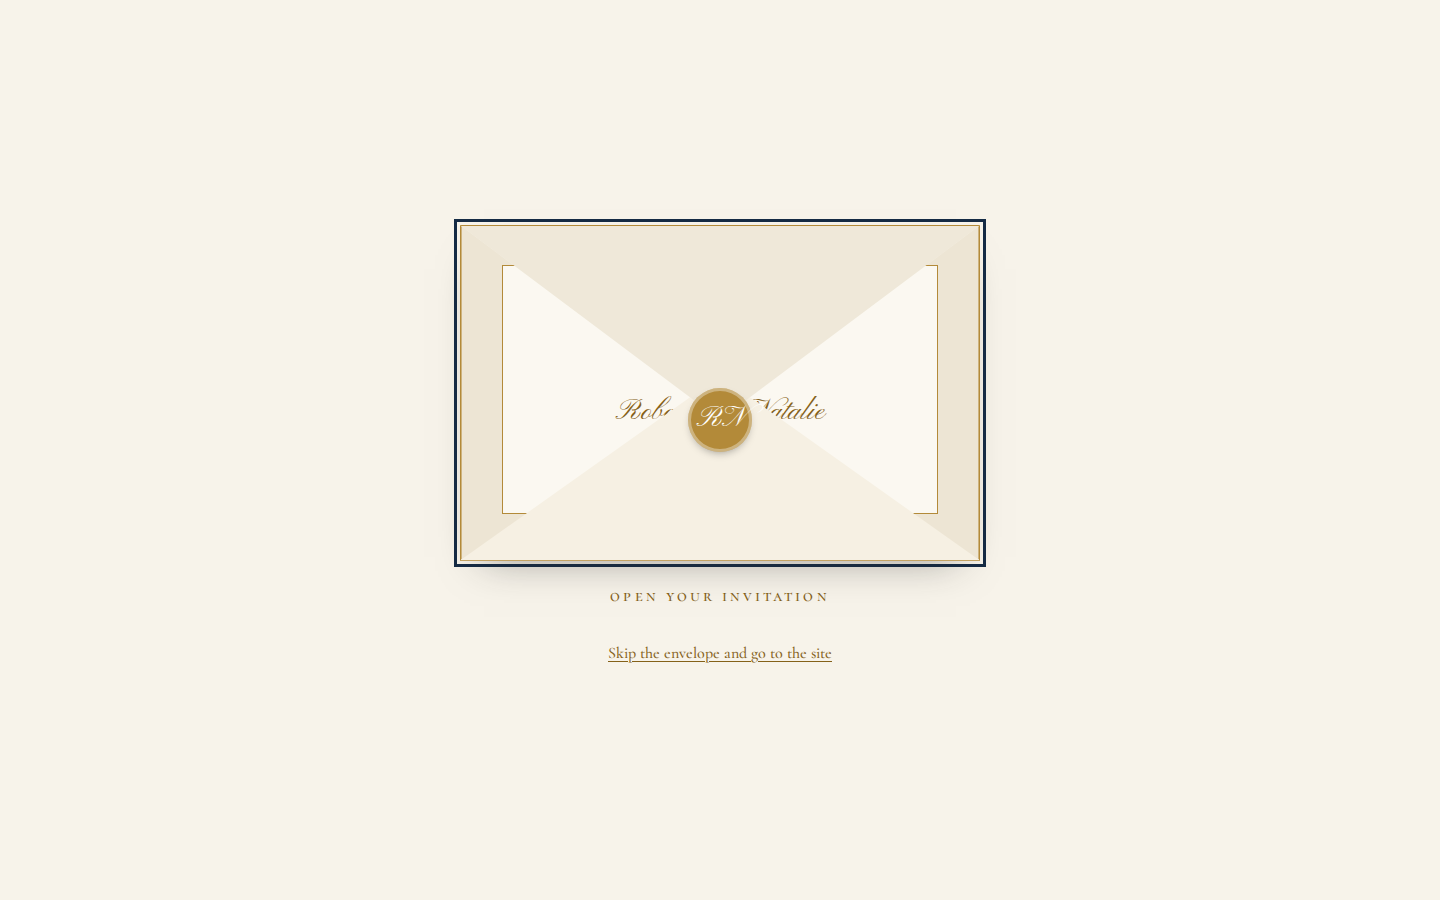
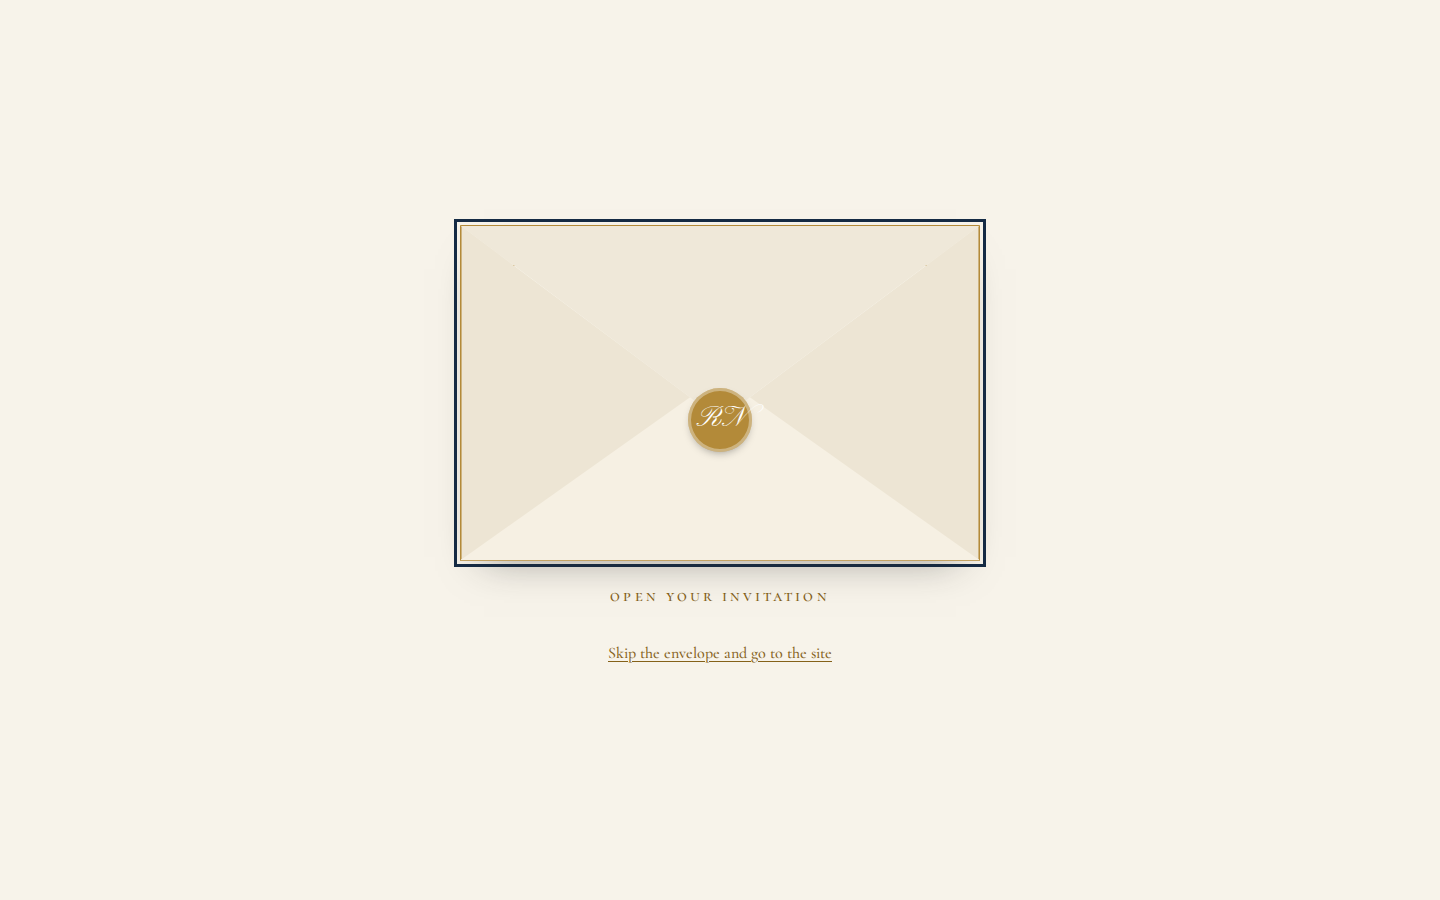
Checkpoint: selection package files from background agents
Claude-Session: https://claude.ai/code/session_01Cg3sbGduzfMBytCjckB1t6

Changed region(s): [[0.3438, 0.28, 0.5, 0.5911], [0.5312, 0.28, 0.6562, 0.5911]]

diff --git a/docs/selection/proofs/alt-a-editorial-heritage/index.html b/docs/selection/proofs/alt-a-editorial-heritage/index.html
@@ -228,7 +228,7 @@ footer .wrap { display: flex; justify-content: space-between; gap: 12px; flex-wr
 .envelope-layer[hidden] { display: none !important; }
 .envelope { position: relative; width: min(100%, 520px); aspect-ratio: 1.55 / 1; margin: 0 auto; cursor: pointer; border: 0; padding: 0; background: transparent; font: inherit; color: inherit; }
 .env-body { position: absolute; inset: 0; background: #f2ecdf; border: 1px solid var(--gold-deco); box-shadow: 0 20px 40px -24px rgba(41,42,40,.5); }
-.env-body::before, .env-body::after { content: ""; position: absolute; inset: 0; border: 1px solid rgba(179,138,57,.55); }
+.env-body::before, .env-body::after { content: ""; position: absolute; inset: 0; border: 1px solid rgba(179,138,57,.55); z-index: 2; }
 .env-body::before { clip-path: polygon(0 0, 0 100%, 50% 58%); background: #ede5d4; }
 .env-body::after { clip-path: polygon(100% 0, 100% 100%, 50% 58%); background: #ede5d4; }
 .env-bottom { position: absolute; inset: 0; clip-path: polygon(0 100%, 100% 100%, 50% 45%); background: #f6f0e3; border-bottom: 1px solid var(--gold-deco); z-index: 2; }
